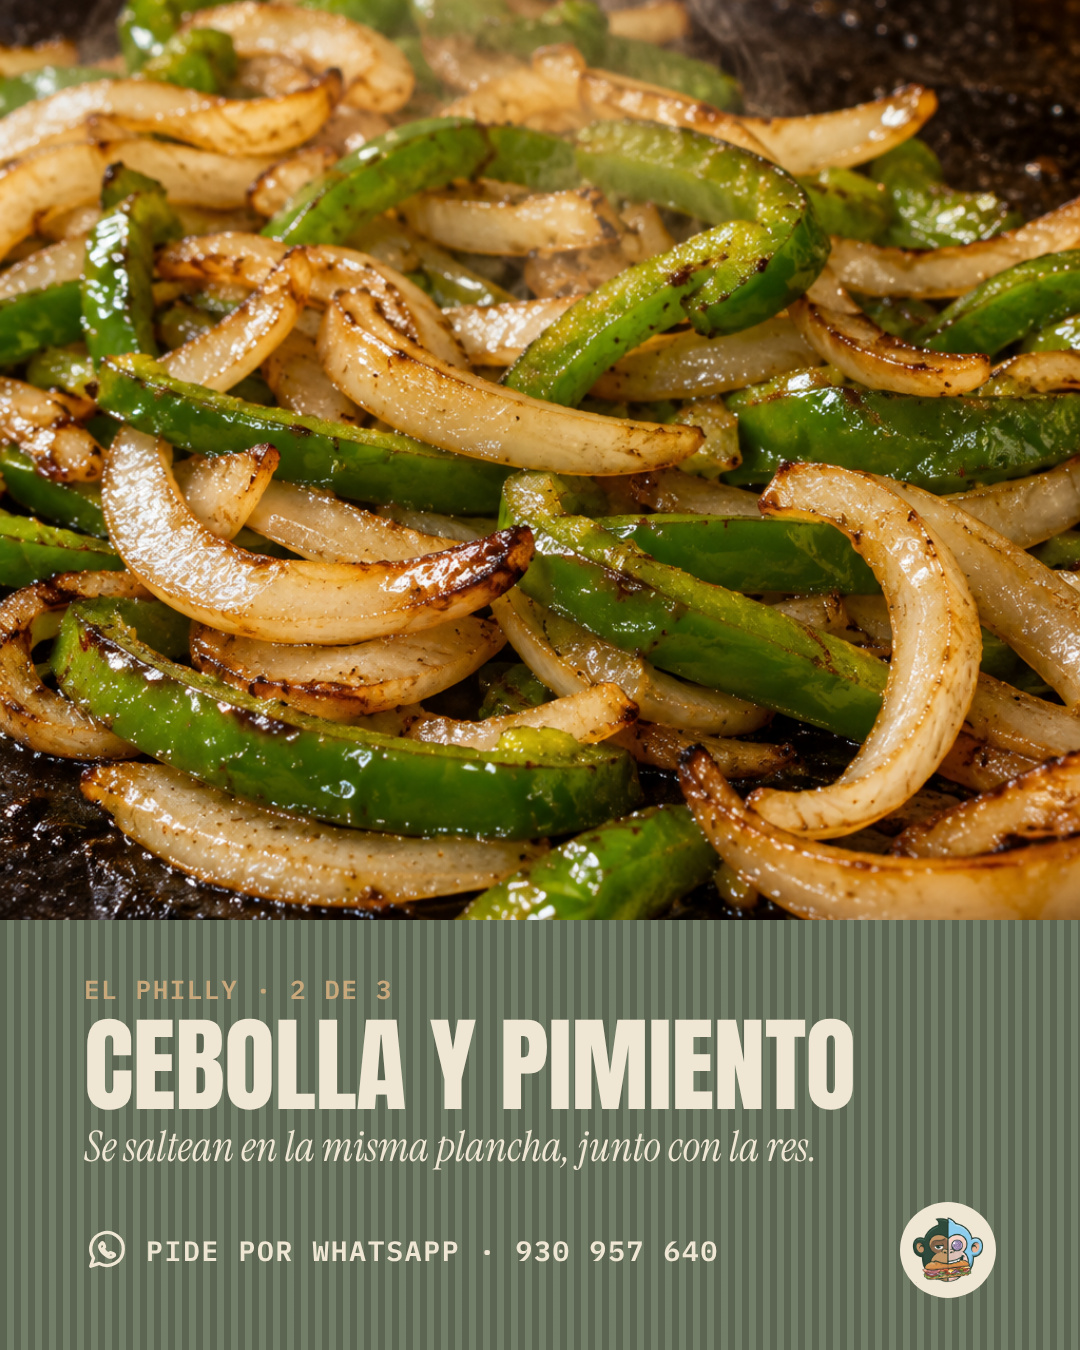
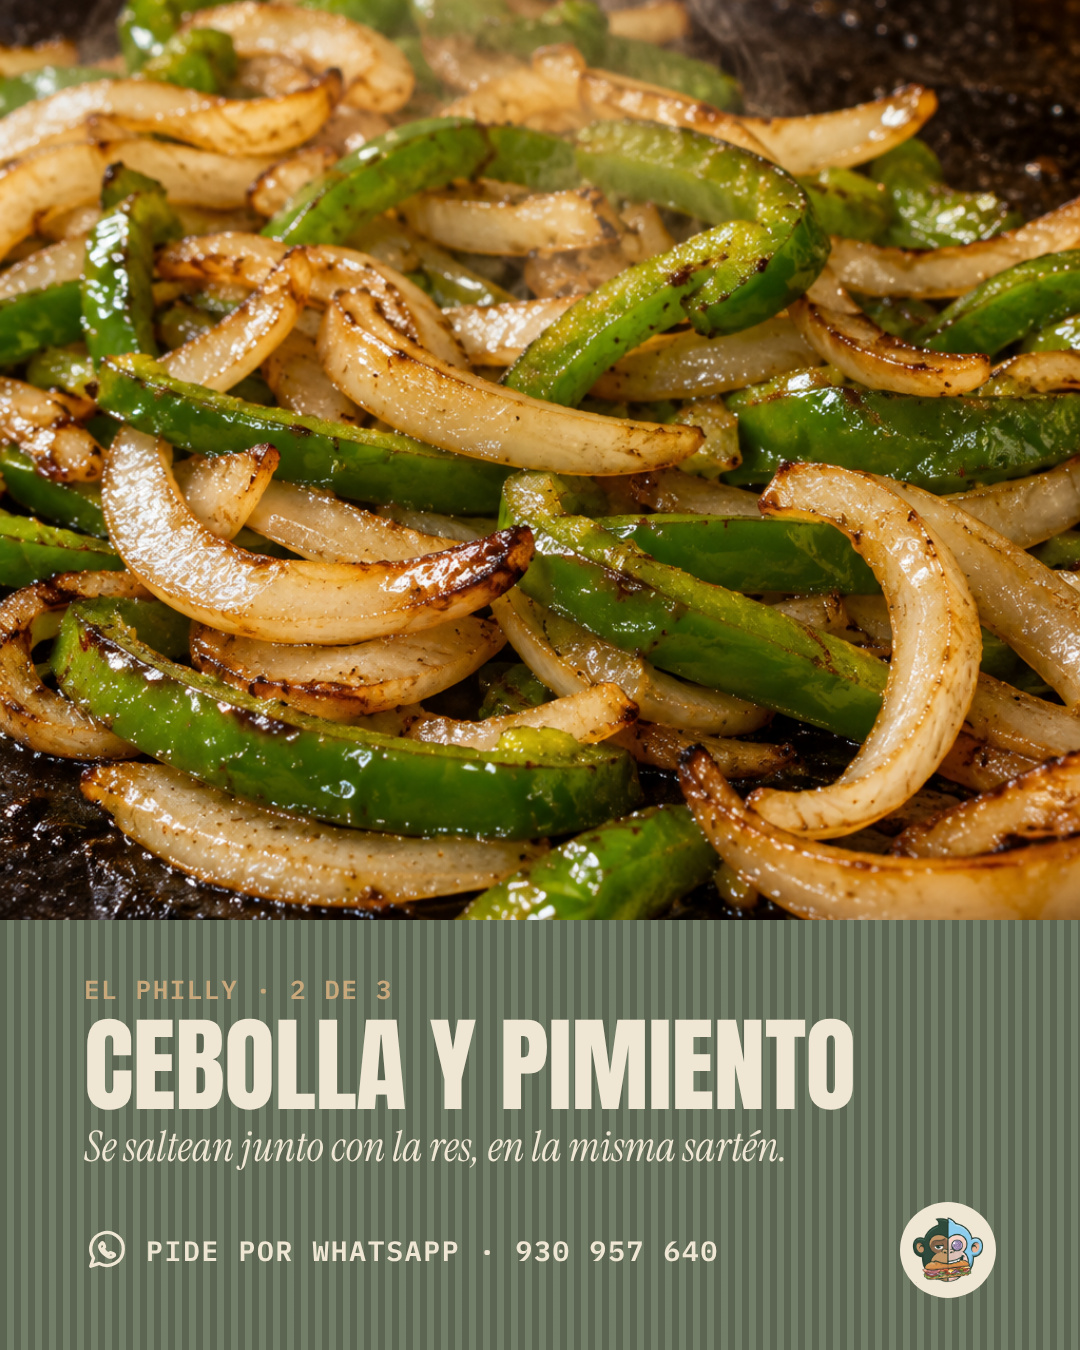
Marketing: no hay plancha, se saltea en sartén (DECISIONES 2026-09-24)
Claude-Session: https://claude.ai/code/session_01As57vo2kdCVAYbjNQSwwFU

Changed region(s): [[0.2139, 0.84, 0.7639, 0.8711]]

diff --git a/docs/marketing/semanas/2026-11-16/PROMPTS.md b/docs/marketing/semanas/2026-11-16/PROMPTS.md
@@ -13,6 +13,6 @@
    smartphone with a completely plain flat white screen facing up, next to a folded sheet of brown kraft paper and a
    closed laptop. Clear bright morning light. No food, no text, no logos, no face.»
 3. **Hoy abrimos**: «Photograph at a small kitchen's doorway in morning light: one hand passes a plain brown kraft paper
-   takeaway bag with flat paper handles, completely blank, to another hand; behind, out of focus, a black flat-top
-   griddle with light steam. Only hands and forearms, neutral clothing, no faces. No text, no logos, no alcohol.»
+   takeaway bag with flat paper handles, completely blank, to another hand; behind, out of focus, a large black skillet on
+   the stove with light steam (no flat-top griddle). Only hands and forearms, neutral clothing, no faces. No text, no logos, no alcohol.»
    El logo oficial (`img/marca/avatar-1024-transparente.png`) se monta después como etiqueta sobre la bolsa.

diff --git a/docs/marketing/semanas/2026-11-09/v2/LEEME.md b/docs/marketing/semanas/2026-11-09/v2/LEEME.md
@@ -23,3 +23,8 @@ las tres palabras. Los textos para pegar son los mismos de `../TEXTOS.md`.
 Dueño eligió «Sí, 1 imagen en Figma» para rehacer la lámina HOAGIE: el ITALIAN HOAGIE ahora lleva jamón ahumado, salame
 y pepperoni. Imagen nueva `fotos/v2-embutidos-nuevos.png` (Figma, `gpt-image-2.5-flare`, 1 variante) y su recorte;
 la lámina `final/3-como-se-dice-3.jpg` se volvió a renderizar con el texto nuevo. Las demás no cambiaron.
+
+## Corrección: no hay plancha (2026-11-09)
+`docs/DECISIONES.md` (2026-09-24): la res y la cebolla del PHILLY se saltean en una sartén grande. La lámina 3 decía «en
+la misma plancha»: ahora dice «en la misma sartén». Las imágenes de las láminas 2 y 3 (`v2-res-plancha.png` y
+`v2-cebolla-pimiento.png`) muestran una plancha negra. Hay que regenerarlas en sartén (2 imágenes, con el sí del dueño).

diff --git a/docs/marketing/semanas/2026-11-16/RESUMEN.md b/docs/marketing/semanas/2026-11-16/RESUMEN.md
@@ -23,8 +23,8 @@ Maquetas: `maqueta-*.jpg` (de `maquetas.cjs`). Los prompts están en `PROMPTS.md
 ## Lo que se cortó
 - **Las historias del viernes 20** (cocina prendida, primer pedido, la noche) quedan para fotos reales del día. Generarlas
   sería mostrar algo que todavía no pasó.
-- **«Ya hay día» (concepto B, la plancha)**: es del hilo «Equipo de marketing». Aquí solo se toma la frase de la
-  plancha para el 20, sin su imagen.
+- **«La plancha se prendió»**: se cambió por «La cocina abre a las 11:00.». No hay plancha: la res y la cebolla del
+  PHILLY se saltean en una sartén grande (`docs/DECISIONES.md`, 2026-09-24). Lo avisó el hilo «Equipo de marketing».
 
 ## Encargos a Flow
 No hay encargos para la semana en curso (9 al 15). Los 14 del 3 al 8 se dieron por perdidos (APERTURA.md).

diff --git a/.claude/skills/estilo-sndwch/SKILL.md b/.claude/skills/estilo-sndwch/SKILL.md
@@ -56,7 +56,7 @@ otra cosa.
 8. **La ejecución tiene que sorprender, además de la idea.** Cada concepto elige una forma de verlo que el feed todavía
    no tiene:
    - **despiece**: las capas flotando, con rótulos en mono como un plano técnico;
-   - **macro de proceso**: la res en la plancha, el vapor, el queso estirándose;
+   - **macro de proceso**: la res salteándose en la sartén (no hay plancha), el vapor, el queso estirándose;
    - **cenital con dos luces**: lo frío con luz de día y lo caliente con lámpara, en la misma mesa;
    - **escala**: el pan de 30 cm junto a una regla o a la mano;
    - **objeto aislado sobre el color de un hermano**, como las portadas de los destacados;

diff --git a/docs/marketing/semanas/2026-11-16/TEXTOS.md b/docs/marketing/semanas/2026-11-16/TEXTOS.md
@@ -12,5 +12,5 @@ Todo en sndwch.app, desde el navegador: nada que instalar.
 
 ## Viernes 20, 10:30 · Hoy abrimos (fijar arriba)
 Hoy abrimos.
-La plancha se prendió a las 11:00. Tu pedido, en sndwch.app (enlace en la biografía).
+La cocina abre a las 11:00. Tu pedido, en sndwch.app (enlace en la biografía).
 Gracias por esperar con nosotros //
